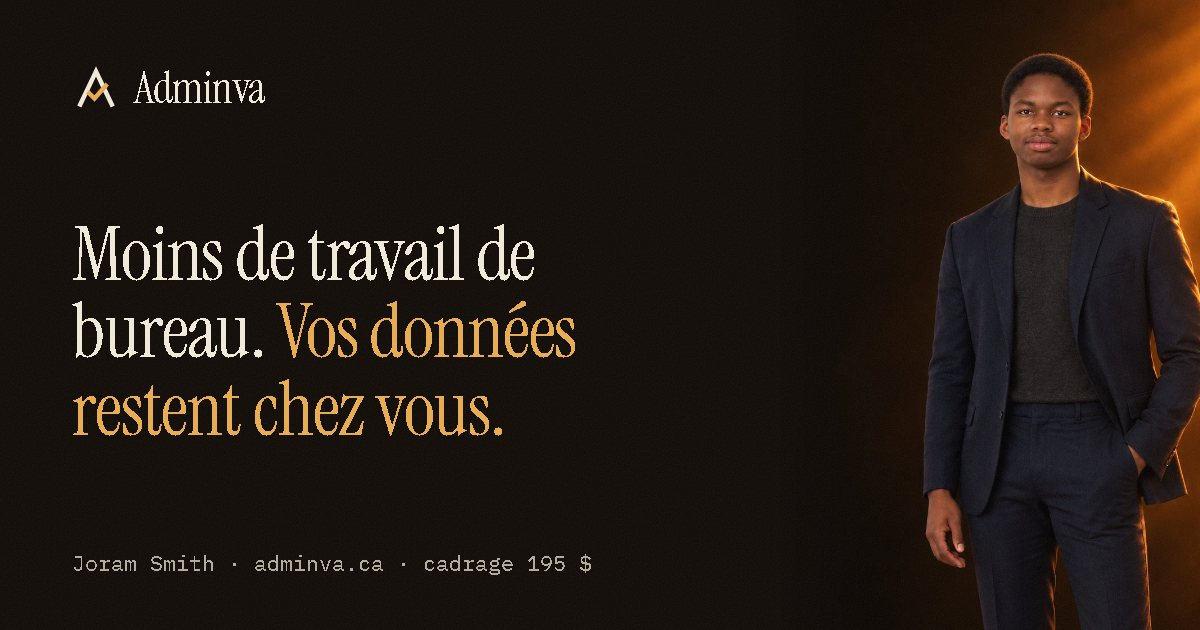
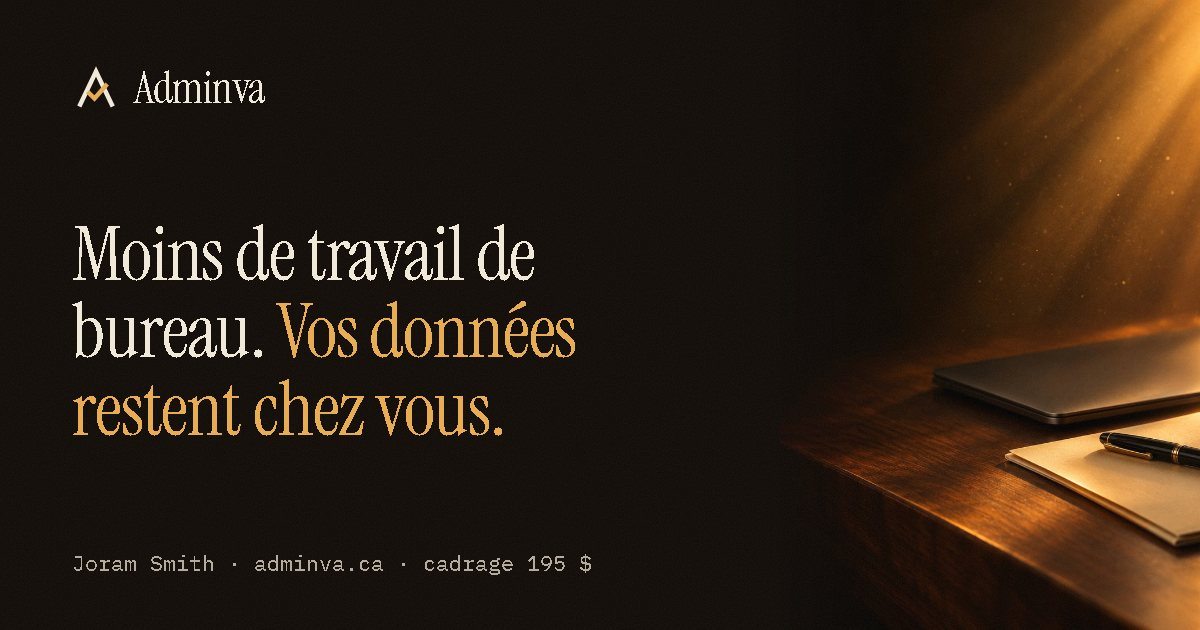
Retrait des portraits, Nos secteurs et page dentiste

Changed region(s): [[0.6783, 0.0, 1.0, 1.0], [0.7092, 0.6333, 0.74, 0.6635]]

diff --git a/secteurs/dentiste/index.html b/secteurs/dentiste/index.html
@@ -1,0 +1,177 @@
+<!doctype html>
+<html lang="fr-CA">
+<head>
+<meta charset="utf-8">
+<meta name="viewport" content="width=device-width, initial-scale=1">
+<title>Cliniques dentaires : le travail de bureau repris | Adminva</title>
+<meta name="description" content="Réceptionniste IA, suivi des patients, assurances, publicité locale et paperasse : le travail de bureau d’une petite clinique dentaire, repris. Cadrage à 195 $, plan écrit en 72 heures.">
+<link rel="canonical" href="https://adminva.ca/secteurs/dentiste/">
+<meta property="og:url" content="https://adminva.ca/secteurs/dentiste/">
+<meta property="og:type" content="website">
+<meta property="og:locale" content="fr_CA">
+<meta property="og:site_name" content="Adminva">
+<meta property="og:title" content="Cliniques dentaires : le travail de bureau repris | Adminva">
+<meta property="og:description" content="Réceptionniste IA, suivi des patients, assurances, publicité locale et paperasse : le travail de bureau d’une petite clinique dentaire, repris. Cadrage à 195 $, plan écrit en 72 heures.">
+<meta property="og:image" content="https://adminva.ca/assets/img/og.jpg">
+<meta name="twitter:card" content="summary_large_image">
+<meta name="theme-color" content="#1a1512">
+<link rel="icon" type="image/svg+xml" href="/favicon.svg">
+<link rel="icon" href="/favicon.ico" sizes="32x32">
+<link rel="apple-touch-icon" href="/apple-touch-icon.png">
+<link rel="preload" as="font" type="font/woff2" href="/assets/fonts/instrument-serif-400-latin.woff2" crossorigin>
+<link rel="preload" as="font" type="font/woff2" href="/assets/fonts/schibsted-grotesk-400-500-latin.woff2" crossorigin>
+<link rel="stylesheet" href="/assets/css/site.css">
+<script>document.documentElement.className='js'+(matchMedia('(prefers-reduced-motion: reduce)').matches?'':' motion')</script>
+</head>
+<body>
+<a class="skip" href="#contenu">Aller au contenu</a>
+<!--H-->
+<header class="head">
+  <div class="wrap head-in">
+    <a class="logo" href="/" aria-label="Adminva, accueil"><svg viewBox="0 0 32 32" fill="none" stroke-linecap="square" aria-hidden="true"><path d="M5.5 27 16 5l10.500 22" stroke="currentColor" stroke-width="3"/><path d="m11.500 19.500 3.500 3.500 7.500-8.500" style="stroke:var(--color-accent)" stroke-width="3"/></svg>Adminva</a>
+    <nav class="nav" aria-label="Principale">
+      <a href="/#cadrage">Le cadrage</a>
+      <a href="/#loi25">Loi&nbsp;25</a>
+      <a href="/#secteurs">Secteurs</a>
+      <a href="/sites-web/">Sites web</a>
+      <a href="/sites-web/exemples/">Exemples</a>
+      <a href="/#qui">Qui je suis</a>
+      <a href="/#contact">Contact</a>
+    </nav>
+    <div class="head-cta">
+      <a class="head-tel" href="tel:+14384073098">438 407-3098</a>
+      <a class="btn btn-sm btn-fill" href="mailto:joram@adminva.ca?subject=Int%C3%A9ress%C3%A9%20par%20le%20cadrage"><span>Écrire<span class="cta-long">&nbsp;à Joram</span></span></a>
+      <button class="burger" type="button" aria-expanded="false" aria-controls="menu" aria-label="Menu"><span></span></button>
+    </div>
+  </div>
+  <div class="drawer" id="menu"><nav class="wrap" aria-label="Menu mobile">
+    <a href="/#cadrage">Le cadrage</a>
+    <a href="/#loi25">Loi&nbsp;25</a>
+    <a href="/#secteurs">Secteurs</a>
+    <a href="/sites-web/">Sites web</a>
+    <a href="/sites-web/exemples/">Exemples</a>
+    <a href="/#qui">Qui je suis</a>
+    <a href="/#contact">Contact</a>
+  </nav></div>
+  <div class="progress" aria-hidden="true"></div>
+</header>
+<!--/H-->
+
+<main id="contenu">
+<section class="page-hero dent-hero">
+  <div class="wrap dent-hero-in">
+    <div>
+      <p class="eyebrow mono">Cliniques dentaires</p>
+      <h1>Votre clinique dentaire, sans le travail de bureau qui s’accumule.</h1>
+      <p class="lede">Appels, rappels, assurances, courriels : je reprends ce qui prend le temps de votre réception, pour que l’équipe s’occupe des patients présents.</p>
+      <div class="btns" data-hero-cta>
+        <a class="btn btn-fill" href="#cadrage">Voir le cadrage</a>
+        <a class="btn" href="tel:+14384073098">438 407-3098</a>
+      </div>
+    </div>
+    <figure class="fig"><picture><source srcset="/assets/img/dentiste-accueil.webp" type="image/webp"><img src="/assets/img/dentiste-accueil.jpg" width="1024" height="688" alt="La réception calme et ordonnée d’une clinique dentaire" fetchpriority="high" decoding="async"></picture></figure>
+  </div>
+</section>
+
+<section class="sec band" id="telephone" aria-labelledby="t-tel">
+  <div class="wrap split">
+    <figure class="fig" data-rv><picture><source srcset="/assets/img/dentiste-comptoir-soir.webp" type="image/webp"><img src="/assets/img/dentiste-comptoir-soir.jpg" width="1024" height="688" alt="Le comptoir d’une réception dentaire encombré en fin de journée" loading="lazy" decoding="async"></picture></figure>
+    <div data-stagger>
+      <h2 id="t-tel" class="h2-s">Ce que le téléphone coûte.</h2>
+      <p class="lede" style="margin-top:var(--space-lg)">Le téléphone sonne pendant un traitement. La réception est occupée au comptoir avec un patient, et personne ne peut répondre.</p>
+      <p class="muted" style="margin-top:var(--space-md);max-width:38rem">Un appel manqué, c’est souvent un patient qui rappelle ailleurs. Et le reste s’empile pendant ce temps&nbsp;: rappels, réclamations, courriels.</p>
+    </div>
+  </div>
+</section>
+
+<section class="sec" id="reprendre" aria-labelledby="t-rep">
+  <div class="wrap split">
+    <div class="split-sticky" data-stagger>
+      <h2 id="t-rep">Ce que je reprends.</h2>
+      <p class="lede" style="margin-top:var(--space-lg)">Cinq tâches de bureau, choisies avec vous au cadrage. Vous pouvez en garder une seule.</p>
+    </div>
+    <ol class="steps" data-stagger>
+      <li><div><h3>Réceptionniste IA</h3><p>Répond aux appels manqués et aux courriels, propose des rendez-vous, trie les urgences et vous remet un résumé. Selon votre système téléphonique&nbsp;: c’est vérifié au cadrage.</p></div></li>
+      <li><div><h3>Suivi des patients</h3><p>Rappels de rendez-vous, rappels d’hygiène aux six mois, patients inactifs à réactiver, plans de traitement non acceptés à relancer. Un tableau de suivi tenu à jour, fourni avec le cadrage.</p></div></li>
+      <li><div><h3>Assurances et facturation</h3><p>Préautorisations préparées, réclamations en retard suivies, relances écrites.</p></div></li>
+      <li><div><h3>Publicité locale</h3><p>Annonces et visuels produits pour attirer de nouveaux patients dans votre quartier, révisés avec vous avant toute diffusion. Réponses aux avis en ligne rédigées pour votre approbation.</p></div></li>
+      <li><div><h3>Courriel et paperasse</h3><p>Formulaires d’accueil, courriels aux patients, rapports mensuels simples.</p></div></li>
+    </ol>
+  </div>
+</section>
+
+<section class="sec band" id="loi25" aria-labelledby="t-loi">
+  <div class="wrap split">
+    <div data-stagger>
+      <h2 id="t-loi" class="h2-s">Vos données restent chez vous.</h2>
+      <p class="lede" style="margin-top:var(--space-lg)">Les renseignements de santé sont sensibles. Rien ne sort de votre clinique sans votre accord, et les accès sont limités aux personnes qui en ont besoin.</p>
+    </div>
+    <div data-stagger>
+      <h3>Conformité Loi&nbsp;25</h3>
+      <p class="price price-s"><span class="muted" style="font-size:.4em;letter-spacing:0">à partir de </span><span data-count="150">150</span><small>$</small></p>
+      <p class="muted">Politique de confidentialité, responsable désigné, registre des incidents, politiques de gouvernance&nbsp;: les quatre documents que la loi exige, préparés pour votre clinique.</p>
+      <a class="arrow" style="margin-top:var(--space-md)" href="mailto:joram@adminva.ca?subject=Loi%2025%20%3A%20clinique%20dentaire">Écrire au sujet de la Loi&nbsp;25</a>
+    </div>
+  </div>
+</section>
+
+<section class="sec" id="cadrage" aria-labelledby="t-cadrage">
+  <div class="wrap offer">
+    <div data-stagger>
+      <h2 id="t-cadrage">Le cadrage</h2>
+      <p class="price"><span data-count="195">195</span><small>$</small></p>
+      <p class="lede">Un plan écrit, livré en 72&nbsp;heures&nbsp;: dans le travail de bureau de votre clinique, qu’est-ce qu’un système automatisé peut reprendre&nbsp;? Livré à distance, sans déplacement.</p>
+      <div class="btns" style="margin-top:var(--space-xl)">
+        <a class="btn btn-fill" href="mailto:joram@adminva.ca?subject=Cliniques%20dentaires%20%3A%20cadrage">Demander le cadrage</a>
+        <a class="btn" href="tel:+14384073098">438 407-3098</a>
+      </div>
+    </div>
+    <div data-rv>
+      <div class="guar" style="margin-top:0">
+        <div><strong>Remboursé si le document ne montre rien d’utile.</strong><span>Les 195&nbsp;$ vous sont rendus.</span></div>
+        <div><strong>Crédité en entier sur la suite, si elle suit.</strong><span>Le cadrage ne vous coûte alors rien de plus.</span></div>
+      </div>
+      <p class="muted" style="margin-top:var(--space-lg)">Pensé pour les petites cliniques et centres dentaires.</p>
+    </div>
+  </div>
+</section>
+
+<section class="sec band final" id="contact" aria-labelledby="t-contact">
+  <div class="wrap">
+    <h2 id="t-contact">Une ligne suffit.</h2>
+    <div class="big" data-rv>
+      <a href="mailto:joram@adminva.ca?subject=Cliniques%20dentaires%20%3A%20cadrage">joram@adminva.ca</a>
+      <a href="tel:+14384073098">438 407-3098</a>
+    </div>
+  </div>
+</section>
+</main>
+
+<!--F-->
+<footer class="foot">
+  <div class="wrap foot-grid">
+    <a class="logo" href="/" aria-label="Adminva, accueil"><svg viewBox="0 0 32 32" fill="none" stroke-linecap="square" aria-hidden="true"><path d="M5.5 27 16 5l10.500 22" stroke="currentColor" stroke-width="3"/><path d="m11.500 19.500 3.500 3.500 7.500-8.500" style="stroke:var(--color-accent)" stroke-width="3"/></svg>Adminva</a>
+    <nav aria-label="Pied de page">
+      <a href="/">Accueil</a>
+      <a href="/#cadrage">Le cadrage</a>
+      <a href="/#loi25">Loi&nbsp;25</a>
+      <a href="/sites-web/">Sites web</a>
+      <a href="/sites-web/exemples/">Exemples</a>
+      <a href="/services/">Services</a>
+      <a href="/#qui">Qui je suis</a>
+      <a href="/#contact">Contact</a>
+    </nav>
+    <div class="foot-legal">
+      <p>Ce site n’utilise aucun témoin de connexion ni aucun outil de suivi.</p>
+      <p>Joram Smith · adminva.ca · 2026</p>
+    </div>
+  </div>
+</footer>
+<div class="bar" aria-label="Contact rapide">
+  <a class="btn btn-fill" href="mailto:joram@adminva.ca?subject=Int%C3%A9ress%C3%A9%20par%20le%20cadrage">Écrire à Joram</a>
+  <a class="btn" href="tel:+14384073098">438 407-3098</a>
+</div>
+<script src="/assets/js/site.js" defer></script>
+<!--/F-->
+</body>
+</html>

diff --git a/index.html b/index.html
@@ -22,7 +22,7 @@
 <link rel="apple-touch-icon" href="/apple-touch-icon.png">
 <link rel="preload" as="font" type="font/woff2" href="/assets/fonts/instrument-serif-400-latin.woff2" crossorigin>
 <link rel="preload" as="font" type="font/woff2" href="/assets/fonts/schibsted-grotesk-400-500-latin.woff2" crossorigin>
-<link rel="preload" as="image" href="/assets/img/joram-hero.webp" type="image/webp" fetchpriority="high">
+<link rel="preload" as="image" href="/assets/img/hero-bureau.webp" type="image/webp" fetchpriority="high">
 <link rel="stylesheet" href="/assets/css/site.css">
 <script>document.documentElement.className='js'+(matchMedia('(prefers-reduced-motion: reduce)').matches?'':' motion')</script>
 <script type="application/ld+json">
@@ -38,6 +38,7 @@
     <nav class="nav" aria-label="Principale">
       <a href="/#cadrage">Le cadrage</a>
       <a href="/#loi25">Loi&nbsp;25</a>
+      <a href="/#secteurs">Secteurs</a>
       <a href="/sites-web/">Sites web</a>
       <a href="/sites-web/exemples/">Exemples</a>
       <a href="/#qui">Qui je suis</a>
@@ -52,6 +53,7 @@
   <div class="drawer" id="menu"><nav class="wrap" aria-label="Menu mobile">
     <a href="/#cadrage">Le cadrage</a>
     <a href="/#loi25">Loi&nbsp;25</a>
+    <a href="/#secteurs">Secteurs</a>
     <a href="/sites-web/">Sites web</a>
     <a href="/sites-web/exemples/">Exemples</a>
     <a href="/#qui">Qui je suis</a>
@@ -75,8 +77,8 @@
       <p class="hero-meta"><a href="tel:+14384073098">438 407-3098</a><a href="mailto:joram@adminva.ca?subject=Int%C3%A9ress%C3%A9%20par%20le%20cadrage">joram@adminva.ca</a></p>
     </div>
     <figure class="hero-fig">
-      <picture><source srcset="/assets/img/joram-hero.webp" type="image/webp"><img src="/assets/img/joram-hero.jpg" width="896" height="1120" alt="Joram Smith, consultant indépendant, debout en veston sombre" fetchpriority="high" decoding="async"></picture>
-      <figcaption>Joram Smith · consultant indépendant</figcaption>
+      <picture><source srcset="/assets/img/hero-bureau.webp" type="image/webp"><img src="/assets/img/hero-bureau.jpg" width="896" height="1120" alt="Un bureau en noyer, un portable fermé et un stylo, éclairés par des rayons dorés" fetchpriority="high" decoding="async"></picture>
+      <figcaption>Un bureau, une lumière, du travail rangé</figcaption>
     </figure>
   </div>
 </section>
@@ -206,6 +208,19 @@
   </div>
 </section>
 
+<section class="sec" id="secteurs" aria-labelledby="t-secteurs">
+  <div class="wrap">
+    <div class="sec-head" data-stagger>
+      <h2 id="t-secteurs">Nos secteurs.</h2>
+      <p class="lede">Même méthode, vocabulaire du métier.</p>
+    </div>
+    <div class="cards cards-2" data-stagger>
+      <a class="card" href="/secteurs/dentiste/"><picture><source srcset="/assets/img/dentiste-accueil.webp" type="image/webp"><img src="/assets/img/dentiste-accueil.jpg" width="1024" height="688" alt="La réception calme et ordonnée d’une clinique dentaire" loading="lazy" decoding="async"></picture><div class="card-body"><h3>Cliniques dentaires</h3><p>Appels manqués, rappels aux patients, assurances, publicité locale : le travail de bureau d’une petite clinique.</p><span class="card-foot">Voir la page</span></div></a>
+      <a class="card" href="/sites-web/"><picture><source srcset="/assets/img/exemple-salon.webp" type="image/webp"><img src="/assets/img/exemple-salon.jpg" width="960" height="600" alt="Aperçu du site d’exemple pour un salon de coiffure" loading="lazy" decoding="async"></picture><div class="card-body"><h3>Commerces locaux et métiers</h3><p>Salons, toilettage, plomberie : un site d’une page, et le travail de bureau qui va avec.</p><span class="card-foot">Voir les sites web</span></div></a>
+    </div>
+  </div>
+</section>
+
 <section class="sec" id="exemples" aria-labelledby="t-ex">
   <div class="wrap">
     <div class="sec-head" data-stagger>
@@ -223,7 +238,7 @@
 
 <section class="sec band" id="qui" aria-labelledby="t-qui">
   <div class="wrap split">
-    <figure class="fig" data-rv><picture><source srcset="/assets/img/joram-bureau.webp" type="image/webp"><img src="/assets/img/joram-bureau.jpg" width="1024" height="688" alt="Joram Smith à son bureau, devant un ordinateur portable" loading="lazy" decoding="async"></picture></figure>
+    <figure class="fig" data-rv><picture><source srcset="/assets/img/bureau-soir.webp" type="image/webp"><img src="/assets/img/bureau-soir.jpg" width="1024" height="688" alt="Un bureau en noyer le soir, sous la lumière chaude d’une lampe" loading="lazy" decoding="async"></picture></figure>
     <div data-stagger>
       <h2 id="t-qui" class="h2-s">Je m’appelle Joram Smith. J’utilise moi-même, tous les jours, le genre de système que j’installe.</h2>
       <p class="lede" style="margin-top:var(--space-lg)">Je travaille seul, comme consultant indépendant&nbsp;: pas d’agence, pas de vendeur entre vous et moi. Vous parlez à celui qui fait le travail.</p>
@@ -255,7 +270,7 @@
       <a href="mailto:joram@adminva.ca?subject=Int%C3%A9ress%C3%A9%20par%20le%20cadrage">joram@adminva.ca</a>
       <a href="tel:+14384073098">438 407-3098</a>
     </div>
-    <div class="who"><picture><source srcset="/assets/img/joram-portrait.webp" type="image/webp"><img src="/assets/img/joram-portrait.jpg" width="1024" height="1024" alt="Portrait de Joram Smith" loading="lazy" decoding="async"></picture><p>Joram Smith, consultant indépendant.<br>Le cadrage est remboursé s’il ne montre rien d’utile.</p></div>
+    <div class="who"><picture><source srcset="/assets/img/stylo-cle.webp" type="image/webp"><img src="/assets/img/stylo-cle.jpg" width="1024" height="1024" alt="Un stylo-plume posé près d’une clé" loading="lazy" decoding="async"></picture><p>Joram Smith, consultant indépendant.<br>Le cadrage est remboursé s’il ne montre rien d’utile.</p></div>
   </div>
 </section>
 

diff --git a/assets/css/site.css b/assets/css/site.css
@@ -249,8 +249,8 @@ a.card:hover{transform:translateY(-4px);border-color:var(--color-accent)}
 .big a::after{content:"→";color:var(--color-accent);transition:transform var(--dur-base) var(--ease-out)}
 .big a:hover{color:var(--color-accent)}
 .who{display:flex;align-items:center;gap:var(--space-md);margin-top:var(--space-xl)}
-.who picture{flex:none;display:block;width:4rem;height:4rem}
-.who img{display:block;width:4rem;height:4rem;min-width:4rem;max-width:none;aspect-ratio:1/1;border-radius:50%;object-fit:cover}
+.who picture{flex:none;display:block;width:5rem;height:5rem}
+.who img{display:block;width:5rem;height:5rem;min-width:5rem;max-width:none;aspect-ratio:1/1;border-radius:var(--radius-sm);object-fit:cover}
 .who p{font-size:var(--text-sm);color:var(--color-muted)}
 
 /* pied */
@@ -468,3 +468,7 @@ a.card:hover{transform:translateY(-4px);border-color:var(--color-accent)}
 @media (max-width:39.99rem){
   .hero{padding-top:calc(3.5rem + min(40vw,11.5rem))}
 }
+.dent-hero-in{display:grid;gap:var(--space-2xl);align-items:center}
+.dent-hero h1{max-width:18ch}
+.eyebrow{color:var(--color-accent);font-size:var(--text-sm);margin-bottom:var(--space-md)}
+@media (min-width:56rem){.dent-hero-in{grid-template-columns:minmax(0,1.1fr) minmax(0,1fr);gap:var(--space-3xl)}}

diff --git a/404.html b/404.html
@@ -31,6 +31,7 @@
     <nav class="nav" aria-label="Principale">
       <a href="/#cadrage">Le cadrage</a>
       <a href="/#loi25">Loi&nbsp;25</a>
+      <a href="/#secteurs">Secteurs</a>
       <a href="/sites-web/">Sites web</a>
       <a href="/sites-web/exemples/">Exemples</a>
       <a href="/#qui">Qui je suis</a>
@@ -45,6 +46,7 @@
   <div class="drawer" id="menu"><nav class="wrap" aria-label="Menu mobile">
     <a href="/#cadrage">Le cadrage</a>
     <a href="/#loi25">Loi&nbsp;25</a>
+    <a href="/#secteurs">Secteurs</a>
     <a href="/sites-web/">Sites web</a>
     <a href="/sites-web/exemples/">Exemples</a>
     <a href="/#qui">Qui je suis</a>

diff --git a/services/index.html b/services/index.html
@@ -32,6 +32,7 @@
     <nav class="nav" aria-label="Principale">
       <a href="/#cadrage">Le cadrage</a>
       <a href="/#loi25">Loi&nbsp;25</a>
+      <a href="/#secteurs">Secteurs</a>
       <a href="/sites-web/">Sites web</a>
       <a href="/sites-web/exemples/">Exemples</a>
       <a href="/#qui">Qui je suis</a>
@@ -46,6 +47,7 @@
   <div class="drawer" id="menu"><nav class="wrap" aria-label="Menu mobile">
     <a href="/#cadrage">Le cadrage</a>
     <a href="/#loi25">Loi&nbsp;25</a>
+    <a href="/#secteurs">Secteurs</a>
     <a href="/sites-web/">Sites web</a>
     <a href="/sites-web/exemples/">Exemples</a>
     <a href="/#qui">Qui je suis</a>

diff --git a/sites-web/exemples/index.html b/sites-web/exemples/index.html
@@ -32,6 +32,7 @@
     <nav class="nav" aria-label="Principale">
       <a href="/#cadrage">Le cadrage</a>
       <a href="/#loi25">Loi&nbsp;25</a>
+      <a href="/#secteurs">Secteurs</a>
       <a href="/sites-web/">Sites web</a>
       <a href="/sites-web/exemples/">Exemples</a>
       <a href="/#qui">Qui je suis</a>
@@ -46,6 +47,7 @@
   <div class="drawer" id="menu"><nav class="wrap" aria-label="Menu mobile">
     <a href="/#cadrage">Le cadrage</a>
     <a href="/#loi25">Loi&nbsp;25</a>
+    <a href="/#secteurs">Secteurs</a>
     <a href="/sites-web/">Sites web</a>
     <a href="/sites-web/exemples/">Exemples</a>
     <a href="/#qui">Qui je suis</a>

diff --git a/sites-web/index.html b/sites-web/index.html
@@ -32,6 +32,7 @@
     <nav class="nav" aria-label="Principale">
       <a href="/#cadrage">Le cadrage</a>
       <a href="/#loi25">Loi&nbsp;25</a>
+      <a href="/#secteurs">Secteurs</a>
       <a href="/sites-web/">Sites web</a>
       <a href="/sites-web/exemples/">Exemples</a>
       <a href="/#qui">Qui je suis</a>
@@ -46,6 +47,7 @@
   <div class="drawer" id="menu"><nav class="wrap" aria-label="Menu mobile">
     <a href="/#cadrage">Le cadrage</a>
     <a href="/#loi25">Loi&nbsp;25</a>
+    <a href="/#secteurs">Secteurs</a>
     <a href="/sites-web/">Sites web</a>
     <a href="/sites-web/exemples/">Exemples</a>
     <a href="/#qui">Qui je suis</a>
